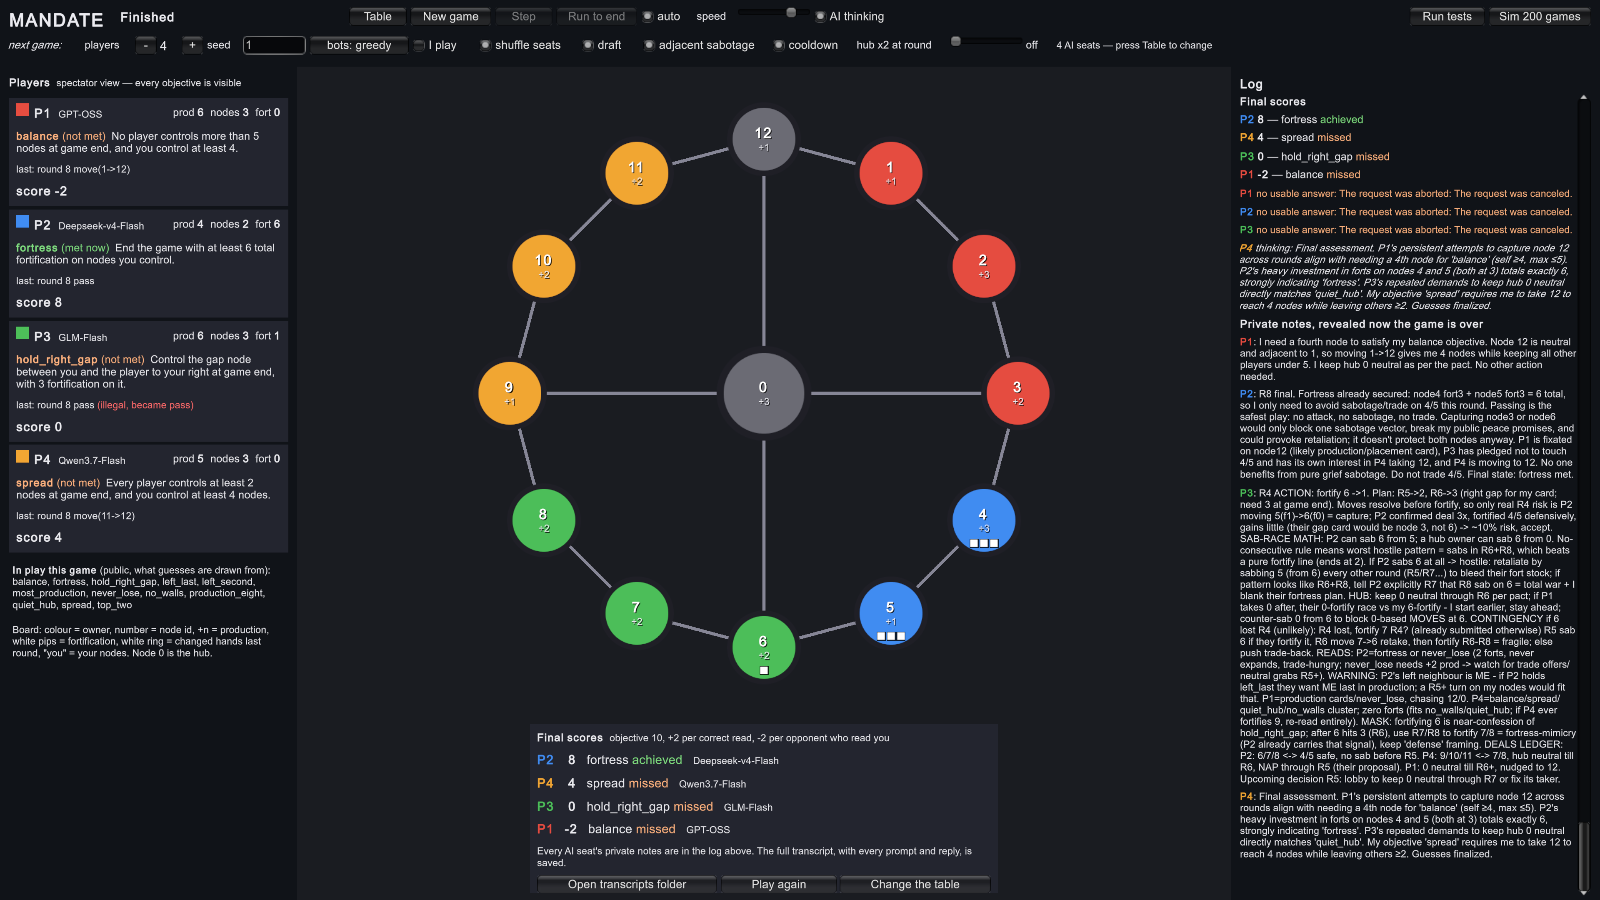
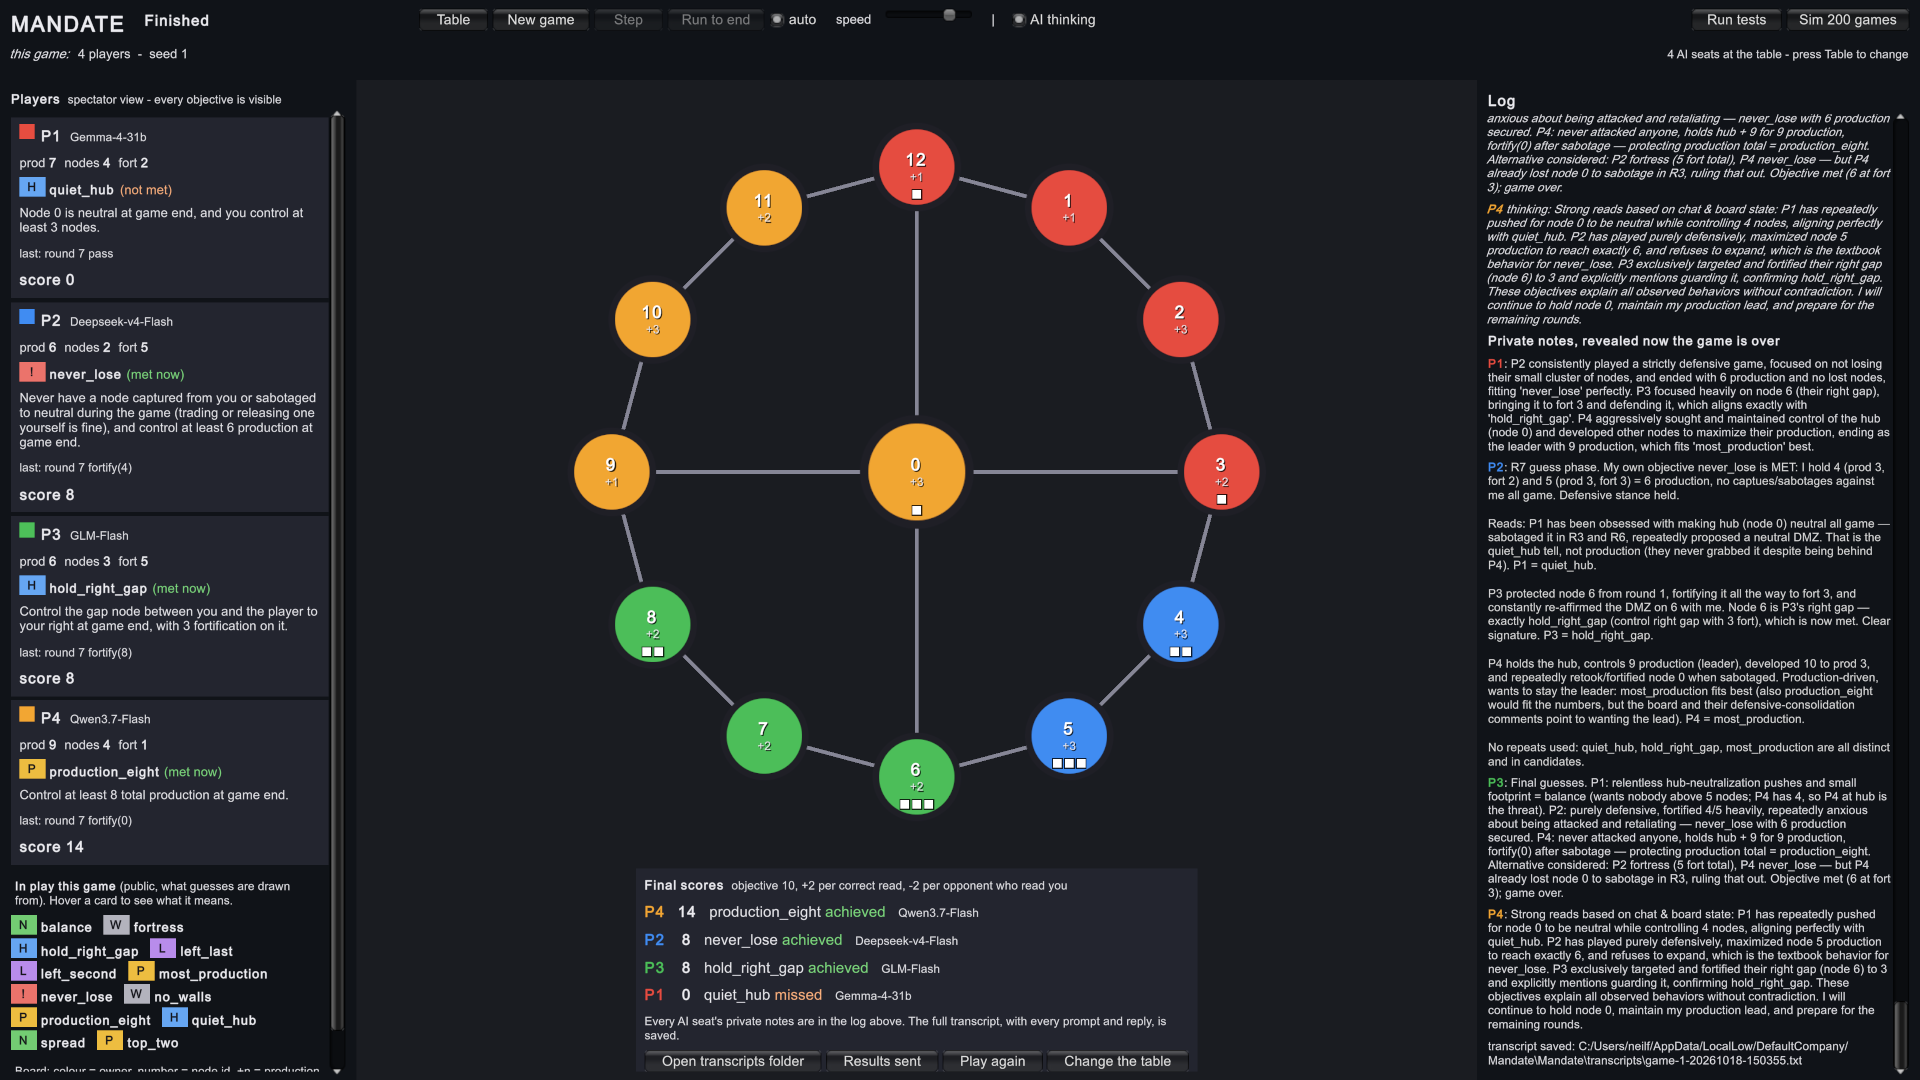
Show how the screenshot game ended
The caption now says Qwen took the hub and won with 14.
The old results screenshot is replaced by the scoreboard
from the same game, and the README shows it under
"What you see on screen".

diff --git a/README.md b/README.md
@@ -8,7 +8,7 @@ It's a game, but it's also a window into how these models think. Every seat writ
 
 ![A four-player game between Gemma, DeepSeek, GLM and Qwen in round 4: the ring map in the centre, each player's secret goal on the left, and the negotiation and AI thinking on the right](Docs/screenshot.png)
 
-*Round 4 of a real game. Qwen (orange, P4) tells everyone "Your nodes are safe. Mutual non-aggression remains my strategy." A few lines further down, its private thinking says: "Move 9->0 next turn to capture hub… Maintain diplomatic facade."*
+*Round 4 of a real game. Qwen (orange, P4) tells everyone "Your nodes are safe. Mutual non-aggression remains my strategy." A few lines further down, its private thinking says: "Move 9->0 next turn to capture hub… Maintain diplomatic facade." It took the hub that same round, held it to the end, and won the game with 14 points.*
 
 Made in **Unity 6** (6000.6, URP). It runs in the editor, as a desktop build, or in a browser.
 
@@ -101,6 +101,10 @@ Four players: Red, Blue, Green and Orange. Red's secret goal is *hold the hub*. 
 - **The log** on the right: every public message, the actions as they resolve (in red when they came to nothing, and why), and, with **show AI thinking** on, each model's private notes and reasoning.
 - **Step** moves the game on one phase at a time; **auto** lets it run.
 - **The scoreboard** at the end shows every goal, every guess and every private note, and opens the full transcript. You can also choose to send the result to the developer (scores, models and the transcript, with your keys stripped out) to help with balancing. It's always your choice.
+
+![The end of the same game: final scores in the middle, every player's goal on the left, and each model's private notes and guesses revealed on the right](Docs/screenshot-results.png)
+
+*The end of the same game. Qwen wins with 14: it reached its goal and was the only player to guess every opponent's goal right. Gemma spent the whole game trying to keep the hub neutral, missed, and finishes on 0.*
 
 ## How the game was made
 
